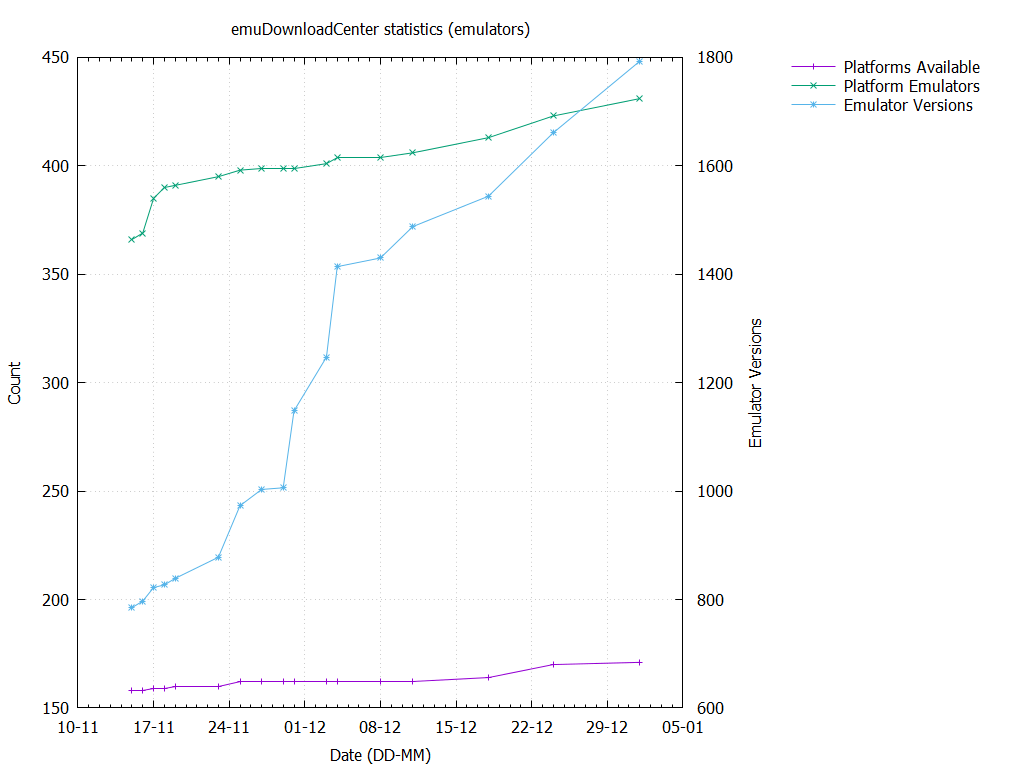
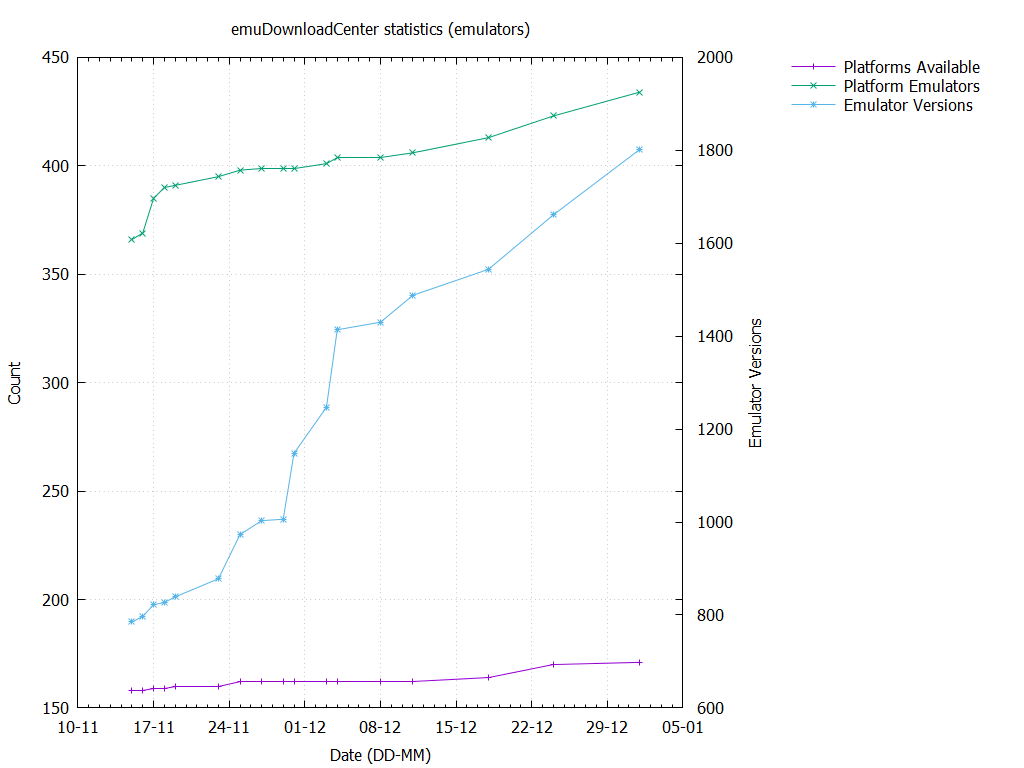
Emulator updates

diff --git a/Emulator-mz700win.md b/Emulator-mz700win.md
@@ -1,0 +1,45 @@
+###### Welcome to [emuDownloadCenter (EDC)](https://github.com/PhoenixInteractiveNL/emuDownloadCenter/wiki/), EDC is a side project of [emuControlCenter](https://github.com/PhoenixInteractiveNL/emuControlCenter/wiki/)
+***
+## Menu
+| **Emulator: MZ700WIN** |
+|:---------|
+| [:clipboard: About](#about) |
+| [:sunrise: Screenshot](#screenshot) |
+| [:floppy_disk: Downloads](#downloads) |
+***
+## About
+**Developement state:** :large_blue_circle: 2016
+
+**MZ700WIN** is a emulator for **Sharp MZ-700/1500** made by **Takeshi Maruyama (marukun)** and has a **Freeware** license, the GUI language is **English**.
+
+The latest version of the emulator on EDC is **0.56 (x86)**, released on **2016-09-12**, it runs on **Windows XP,Vista,7,8,10**, you can start this emulator with **mz700win.exe**.
+
+:warning: _**Please note:**_ This emulator **needs BIOS image(s)** to start ROM files!
+
+_mz700win - an MZ-700 emulator._
+
+[:link: **Emulator website**](http://www.retropc.net/mz-memories/mz700/)
+***
+## Screenshot
+![](https://raw.githubusercontent.com/PhoenixInteractiveNL/emuDownloadCenter/master/hooks/mz700win/emulator_screen_01.jpg "MZ700WIN screenshot.")
+***
+## Downloads
+Legend: | 
+![](https://raw.githubusercontent.com/wiki/PhoenixInteractiveNL/emuDownloadCenter/images_misc/icon_program_24.png) **Program** | 
+![](https://raw.githubusercontent.com/wiki/PhoenixInteractiveNL/emuDownloadCenter/images_misc/icon_installer_24.png) **Installer** | 
+![](https://raw.githubusercontent.com/wiki/PhoenixInteractiveNL/emuDownloadCenter/images_misc/icon_source_code_24.png) **Source** | 
+![](https://raw.githubusercontent.com/wiki/PhoenixInteractiveNL/emuDownloadCenter/images_misc/icon_extra_24.png) **Extra** | 
+![](https://raw.githubusercontent.com/wiki/PhoenixInteractiveNL/emuDownloadCenter/images_misc/icon_plugin_24.png) **Plugin** | 
+![](https://raw.githubusercontent.com/wiki/PhoenixInteractiveNL/emuDownloadCenter/images_misc/icon_driver_24.png) **Driver** | 
+![](https://raw.githubusercontent.com/wiki/PhoenixInteractiveNL/emuDownloadCenter/images_misc/icon_tool_24.png) **Tool** | 
+ 
+| Version | OS | Release date | Info | DL Size |
+|:--------|---:|:------------:|:----:|--------:|
+| [![](https://raw.githubusercontent.com/wiki/PhoenixInteractiveNL/emuDownloadCenter/images_misc/icon_program_24.png "Click to download!")  **0.56**](https://github.com/PhoenixInteractiveNL/edc-repo0006/raw/master/mz700win/0.56.7z) | ![](https://raw.githubusercontent.com/wiki/PhoenixInteractiveNL/emuDownloadCenter/images_misc/logo_windows_24.png) ![](https://raw.githubusercontent.com/wiki/PhoenixInteractiveNL/emuDownloadCenter/images_misc/icon_32-bit_24.png) | 2016-09-12 | [![](https://raw.githubusercontent.com/wiki/PhoenixInteractiveNL/emuDownloadCenter/images_misc/icon_changelog_24.png "Click to view version changelog.")](https://github.com/PhoenixInteractiveNL/edc-repo0006/blob/master/mz700win/0.56_changelog.txt) [![](https://raw.githubusercontent.com/wiki/PhoenixInteractiveNL/emuDownloadCenter/images_misc/icon_contents_24.png "Click to view archive contents.")](https://github.com/PhoenixInteractiveNL/edc-repo0006/blob/master/mz700win/0.56_contents.txt) | 214 KB |
+| [![](https://raw.githubusercontent.com/wiki/PhoenixInteractiveNL/emuDownloadCenter/images_misc/icon_program_24.png "Click to download!")  **0.53**](https://github.com/PhoenixInteractiveNL/edc-repo0006/raw/master/mz700win/0.53.7z) | ![](https://raw.githubusercontent.com/wiki/PhoenixInteractiveNL/emuDownloadCenter/images_misc/logo_windows_24.png) ![](https://raw.githubusercontent.com/wiki/PhoenixInteractiveNL/emuDownloadCenter/images_misc/icon_32-bit_24.png) | 2008-02-11 | [![](https://raw.githubusercontent.com/wiki/PhoenixInteractiveNL/emuDownloadCenter/images_misc/icon_changelog_24.png "Click to view version changelog.")](https://github.com/PhoenixInteractiveNL/edc-repo0006/blob/master/mz700win/0.53_changelog.txt) [![](https://raw.githubusercontent.com/wiki/PhoenixInteractiveNL/emuDownloadCenter/images_misc/icon_contents_24.png "Click to view archive contents.")](https://github.com/PhoenixInteractiveNL/edc-repo0006/blob/master/mz700win/0.53_contents.txt) | 120 KB |
+| [![](https://raw.githubusercontent.com/wiki/PhoenixInteractiveNL/emuDownloadCenter/images_misc/icon_program_24.png "Click to download!")  **0.52**](https://github.com/PhoenixInteractiveNL/edc-repo0006/raw/master/mz700win/0.52.7z) | ![](https://raw.githubusercontent.com/wiki/PhoenixInteractiveNL/emuDownloadCenter/images_misc/logo_windows_24.png) ![](https://raw.githubusercontent.com/wiki/PhoenixInteractiveNL/emuDownloadCenter/images_misc/icon_32-bit_24.png) | 2000-10-27 | [![](https://raw.githubusercontent.com/wiki/PhoenixInteractiveNL/emuDownloadCenter/images_misc/icon_changelog_24.png "Click to view version changelog.")](https://github.com/PhoenixInteractiveNL/edc-repo0006/blob/master/mz700win/0.52_changelog.txt) [![](https://raw.githubusercontent.com/wiki/PhoenixInteractiveNL/emuDownloadCenter/images_misc/icon_contents_24.png "Click to view archive contents.")](https://github.com/PhoenixInteractiveNL/edc-repo0006/blob/master/mz700win/0.52_contents.txt) | 100 KB |
+| [![](https://raw.githubusercontent.com/wiki/PhoenixInteractiveNL/emuDownloadCenter/images_misc/icon_source_code_24.png "Click to download!")  **0.52-source**](https://github.com/PhoenixInteractiveNL/edc-repo0006/raw/master/mz700win/0.52-source.7z) |  ![](https://raw.githubusercontent.com/wiki/PhoenixInteractiveNL/emuDownloadCenter/images_misc/icon_32-bit_24.png) | 2000-10-27 | [![](https://raw.githubusercontent.com/wiki/PhoenixInteractiveNL/emuDownloadCenter/images_misc/icon_changelog_24.png "Click to view version changelog.")](https://github.com/PhoenixInteractiveNL/edc-repo0006/blob/master/mz700win/0.52-source_changelog.txt) [![](https://raw.githubusercontent.com/wiki/PhoenixInteractiveNL/emuDownloadCenter/images_misc/icon_contents_24.png "Click to view archive contents.")](https://github.com/PhoenixInteractiveNL/edc-repo0006/blob/master/mz700win/0.52-source_contents.txt) | 78 KB |
+| [![](https://raw.githubusercontent.com/wiki/PhoenixInteractiveNL/emuDownloadCenter/images_misc/icon_source_code_24.png "Click to download!")  **0.2-source**](https://github.com/PhoenixInteractiveNL/edc-repo0006/raw/master/mz700win/0.2-source.7z) |  ![](https://raw.githubusercontent.com/wiki/PhoenixInteractiveNL/emuDownloadCenter/images_misc/icon_32-bit_24.png) | 1996-12-04 | [![](https://raw.githubusercontent.com/wiki/PhoenixInteractiveNL/emuDownloadCenter/images_misc/icon_changelog_24.png "Click to view version changelog.")](https://github.com/PhoenixInteractiveNL/edc-repo0006/blob/master/mz700win/0.2-source_changelog.txt) [![](https://raw.githubusercontent.com/wiki/PhoenixInteractiveNL/emuDownloadCenter/images_misc/icon_contents_24.png "Click to view archive contents.")](https://github.com/PhoenixInteractiveNL/edc-repo0006/blob/master/mz700win/0.2-source_contents.txt) | 29 KB |
+| [![](https://raw.githubusercontent.com/wiki/PhoenixInteractiveNL/emuDownloadCenter/images_misc/icon_extra_24.png "Click to download!") ![](https://raw.githubusercontent.com/wiki/PhoenixInteractiveNL/emuDownloadCenter/images_misc/icon_tool_24.png) **extra-mzt2wav-0.2**](https://github.com/PhoenixInteractiveNL/edc-repo0006/raw/master/mz700win/extra-mzt2wav-0.2.7z) | ![](https://raw.githubusercontent.com/wiki/PhoenixInteractiveNL/emuDownloadCenter/images_misc/logo_windows_24.png) ![](https://raw.githubusercontent.com/wiki/PhoenixInteractiveNL/emuDownloadCenter/images_misc/icon_32-bit_24.png) | 2000-01-17 | [![](https://raw.githubusercontent.com/wiki/PhoenixInteractiveNL/emuDownloadCenter/images_misc/icon_changelog_24.png "Click to view version changelog.")](https://github.com/PhoenixInteractiveNL/edc-repo0006/blob/master/mz700win/extra-mzt2wav-0.2_changelog.txt) [![](https://raw.githubusercontent.com/wiki/PhoenixInteractiveNL/emuDownloadCenter/images_misc/icon_contents_24.png "Click to view archive contents.")](https://github.com/PhoenixInteractiveNL/edc-repo0006/blob/master/mz700win/extra-mzt2wav-0.2_contents.txt) | 15 KB |
+
+[:arrow_backward: Go to platform listing](https://github.com/PhoenixInteractiveNL/emuDownloadCenter/wiki/EDC-Platform-List)

diff --git a/Emulator-em7.md b/Emulator-em7.md
@@ -10,11 +10,11 @@
 ## About
 ![](https://github.com/PhoenixInteractiveNL/emuDownloadCenter/wiki/images_emulator/em7_logo_200.jpg "EM-7 logo.")
 
-**Developement state:** :red_circle: 2000
+**Developement state:** :red_circle: 1998
 
 **EM-7** is a emulator for **Fujitsu FM-7** made by **Yoshimi** and has a **Freeware** license, the GUI language is **Japanese**.
 
-The latest version of the emulator on EDC is **2.1a-win95-98 (x86)**, released on **2000-02-14**, it runs on **Windows 95,98,XP**, you can start this emulator with **Em7.exe**.
+The latest version of the emulator on EDC is **2.2b-dos (x86)**, released on **1998-10-21**, it runs on **DOS 6.22**, you can start this emulator with **EM7SWUP.EXE**.
 
 :warning: _**Please note:**_ This emulator **needs BIOS image(s)** to start ROM files!
 
@@ -37,8 +37,8 @@ Legend: |
  
 | Version | OS | Release date | Info | DL Size |
 |:--------|---:|:------------:|:----:|--------:|
-| [![](https://raw.githubusercontent.com/wiki/PhoenixInteractiveNL/emuDownloadCenter/images_misc/icon_program_24.png "Click to download!")  **2.1a-win95-98**](https://github.com/PhoenixInteractiveNL/edc-repo0006/raw/master/em7/2.1a-win95-98.7z) | ![](https://raw.githubusercontent.com/wiki/PhoenixInteractiveNL/emuDownloadCenter/images_misc/logo_windows_24.png) ![](https://raw.githubusercontent.com/wiki/PhoenixInteractiveNL/emuDownloadCenter/images_misc/icon_32-bit_24.png) | 2000-02-14 | [![](https://raw.githubusercontent.com/wiki/PhoenixInteractiveNL/emuDownloadCenter/images_misc/icon_changelog_24.png "Click to view version changelog.")](https://github.com/PhoenixInteractiveNL/edc-repo0006/blob/master/em7/2.1a-win95-98_changelog.txt) [![](https://raw.githubusercontent.com/wiki/PhoenixInteractiveNL/emuDownloadCenter/images_misc/icon_contents_24.png "Click to view archive contents.")](https://github.com/PhoenixInteractiveNL/edc-repo0006/blob/master/em7/2.1a-win95-98_contents.txt) | 251 KB |
 | [![](https://raw.githubusercontent.com/wiki/PhoenixInteractiveNL/emuDownloadCenter/images_misc/icon_program_24.png "Click to download!")  **2.2b-dos**](https://github.com/PhoenixInteractiveNL/edc-repo0006/raw/master/em7/2.2b-dos.7z) | ![](https://raw.githubusercontent.com/wiki/PhoenixInteractiveNL/emuDownloadCenter/images_misc/logo_dos_24.png) ![](https://raw.githubusercontent.com/wiki/PhoenixInteractiveNL/emuDownloadCenter/images_misc/icon_32-bit_24.png) | 1998-10-21 | [![](https://raw.githubusercontent.com/wiki/PhoenixInteractiveNL/emuDownloadCenter/images_misc/icon_changelog_24.png "Click to view version changelog.")](https://github.com/PhoenixInteractiveNL/edc-repo0006/blob/master/em7/2.2b-dos_changelog.txt) [![](https://raw.githubusercontent.com/wiki/PhoenixInteractiveNL/emuDownloadCenter/images_misc/icon_contents_24.png "Click to view archive contents.")](https://github.com/PhoenixInteractiveNL/edc-repo0006/blob/master/em7/2.2b-dos_contents.txt) | 262 KB |
+| [![](https://raw.githubusercontent.com/wiki/PhoenixInteractiveNL/emuDownloadCenter/images_misc/icon_program_24.png "Click to download!")  **2.1a-win95-98**](https://github.com/PhoenixInteractiveNL/edc-repo0006/raw/master/em7/2.1a-win95-98.7z) | ![](https://raw.githubusercontent.com/wiki/PhoenixInteractiveNL/emuDownloadCenter/images_misc/logo_windows_24.png) ![](https://raw.githubusercontent.com/wiki/PhoenixInteractiveNL/emuDownloadCenter/images_misc/icon_32-bit_24.png) | 2000-02-14 | [![](https://raw.githubusercontent.com/wiki/PhoenixInteractiveNL/emuDownloadCenter/images_misc/icon_changelog_24.png "Click to view version changelog.")](https://github.com/PhoenixInteractiveNL/edc-repo0006/blob/master/em7/2.1a-win95-98_changelog.txt) [![](https://raw.githubusercontent.com/wiki/PhoenixInteractiveNL/emuDownloadCenter/images_misc/icon_contents_24.png "Click to view archive contents.")](https://github.com/PhoenixInteractiveNL/edc-repo0006/blob/master/em7/2.1a-win95-98_contents.txt) | 251 KB |
 | [![](https://raw.githubusercontent.com/wiki/PhoenixInteractiveNL/emuDownloadCenter/images_misc/icon_program_24.png "Click to download!")  **2.1a-dos**](https://github.com/PhoenixInteractiveNL/edc-repo0006/raw/master/em7/2.1a-dos.7z) | ![](https://raw.githubusercontent.com/wiki/PhoenixInteractiveNL/emuDownloadCenter/images_misc/logo_dos_24.png) ![](https://raw.githubusercontent.com/wiki/PhoenixInteractiveNL/emuDownloadCenter/images_misc/icon_32-bit_24.png) | 1996-12-01 | [![](https://raw.githubusercontent.com/wiki/PhoenixInteractiveNL/emuDownloadCenter/images_misc/icon_changelog_24.png "Click to view version changelog.")](https://github.com/PhoenixInteractiveNL/edc-repo0006/blob/master/em7/2.1a-dos_changelog.txt) [![](https://raw.githubusercontent.com/wiki/PhoenixInteractiveNL/emuDownloadCenter/images_misc/icon_contents_24.png "Click to view archive contents.")](https://github.com/PhoenixInteractiveNL/edc-repo0006/blob/master/em7/2.1a-dos_contents.txt) | 215 KB |
 
 [:arrow_backward: Go to platform listing](https://github.com/PhoenixInteractiveNL/emuDownloadCenter/wiki/EDC-Platform-List)

diff --git a/Emulator-nemulator.md b/Emulator-nemulator.md
@@ -1,0 +1,41 @@
+###### Welcome to [emuDownloadCenter (EDC)](https://github.com/PhoenixInteractiveNL/emuDownloadCenter/wiki/), EDC is a side project of [emuControlCenter](https://github.com/PhoenixInteractiveNL/emuControlCenter/wiki/)
+***
+## Menu
+| **Emulator: Nemulator** |
+|:---------|
+| [:clipboard: About](#about) |
+| [:sunrise: Screenshot](#screenshot) |
+| [:floppy_disk: Downloads](#downloads) |
+***
+## About
+**Developement state:** :large_blue_circle: 2016
+
+**Nemulator** is a emulator for **Nintendo NES/Famicom** made by **James Slepicka** and has a **Freeware** license, the GUI language is **English**.
+
+The latest version of the emulator on EDC is **4.01 (x86)**, released on **2016-01-19**, it runs on **Windows XP,Vista,7,8,10**, you can start this emulator with **nemulator.exe**.
+
+This emulator does **NOT** specificly need BIOS image(s) to start ROM files!
+
+_nemulator is a Nintendo Entertainment Systems and Sega Master System emulator._
+
+[:link: **Emulator website**](http://nemulator.com/)
+***
+## Screenshot
+![](https://raw.githubusercontent.com/PhoenixInteractiveNL/emuDownloadCenter/master/hooks/nemulator/emulator_screen_01.jpg "Nemulator screenshot.")
+***
+## Downloads
+Legend: | 
+![](https://raw.githubusercontent.com/wiki/PhoenixInteractiveNL/emuDownloadCenter/images_misc/icon_program_24.png) **Program** | 
+![](https://raw.githubusercontent.com/wiki/PhoenixInteractiveNL/emuDownloadCenter/images_misc/icon_installer_24.png) **Installer** | 
+![](https://raw.githubusercontent.com/wiki/PhoenixInteractiveNL/emuDownloadCenter/images_misc/icon_source_code_24.png) **Source** | 
+![](https://raw.githubusercontent.com/wiki/PhoenixInteractiveNL/emuDownloadCenter/images_misc/icon_extra_24.png) **Extra** | 
+![](https://raw.githubusercontent.com/wiki/PhoenixInteractiveNL/emuDownloadCenter/images_misc/icon_plugin_24.png) **Plugin** | 
+![](https://raw.githubusercontent.com/wiki/PhoenixInteractiveNL/emuDownloadCenter/images_misc/icon_driver_24.png) **Driver** | 
+![](https://raw.githubusercontent.com/wiki/PhoenixInteractiveNL/emuDownloadCenter/images_misc/icon_tool_24.png) **Tool** | 
+ 
+| Version | OS | Release date | Info | DL Size |
+|:--------|---:|:------------:|:----:|--------:|
+| [![](https://raw.githubusercontent.com/wiki/PhoenixInteractiveNL/emuDownloadCenter/images_misc/icon_program_24.png "Click to download!")  **4.01**](https://github.com/PhoenixInteractiveNL/edc-repo0004/raw/master/nemulator/4.01.7z) | ![](https://raw.githubusercontent.com/wiki/PhoenixInteractiveNL/emuDownloadCenter/images_misc/logo_windows_24.png) ![](https://raw.githubusercontent.com/wiki/PhoenixInteractiveNL/emuDownloadCenter/images_misc/icon_32-bit_24.png) | 2016-01-19 | [![](https://raw.githubusercontent.com/wiki/PhoenixInteractiveNL/emuDownloadCenter/images_misc/icon_changelog_24.png "Click to view version changelog.")](https://github.com/PhoenixInteractiveNL/edc-repo0004/blob/master/nemulator/4.01_changelog.txt) [![](https://raw.githubusercontent.com/wiki/PhoenixInteractiveNL/emuDownloadCenter/images_misc/icon_contents_24.png "Click to view archive contents.")](https://github.com/PhoenixInteractiveNL/edc-repo0004/blob/master/nemulator/4.01_contents.txt) | 135 KB |
+| [![](https://raw.githubusercontent.com/wiki/PhoenixInteractiveNL/emuDownloadCenter/images_misc/icon_program_24.png "Click to download!")  **3.5**](https://github.com/PhoenixInteractiveNL/edc-repo0004/raw/master/nemulator/3.5.7z) | ![](https://raw.githubusercontent.com/wiki/PhoenixInteractiveNL/emuDownloadCenter/images_misc/logo_windows_24.png) ![](https://raw.githubusercontent.com/wiki/PhoenixInteractiveNL/emuDownloadCenter/images_misc/icon_32-bit_24.png) | 2015-12-25 | [![](https://raw.githubusercontent.com/wiki/PhoenixInteractiveNL/emuDownloadCenter/images_misc/icon_changelog_24.png "Click to view version changelog.")](https://github.com/PhoenixInteractiveNL/edc-repo0004/blob/master/nemulator/3.5_changelog.txt) [![](https://raw.githubusercontent.com/wiki/PhoenixInteractiveNL/emuDownloadCenter/images_misc/icon_contents_24.png "Click to view archive contents.")](https://github.com/PhoenixInteractiveNL/edc-repo0004/blob/master/nemulator/3.5_contents.txt) | 95 KB |
+
+[:arrow_backward: Go to platform listing](https://github.com/PhoenixInteractiveNL/emuDownloadCenter/wiki/EDC-Platform-List)

diff --git a/Emulator-swfopener.md b/Emulator-swfopener.md
@@ -38,6 +38,6 @@ Legend: |
 | Version | OS | Release date | Info | DL Size |
 |:--------|---:|:------------:|:----:|--------:|
 | [![](https://raw.githubusercontent.com/wiki/PhoenixInteractiveNL/emuDownloadCenter/images_misc/icon_program_24.png "Click to download!")  **1.3**](https://github.com/PhoenixInteractiveNL/edc-repo0006/raw/master/swfopener/1.3.7z) | ![](https://raw.githubusercontent.com/wiki/PhoenixInteractiveNL/emuDownloadCenter/images_misc/logo_windows_24.png) ![](https://raw.githubusercontent.com/wiki/PhoenixInteractiveNL/emuDownloadCenter/images_misc/icon_32-bit_24.png) | 2005-04-27 | [![](https://raw.githubusercontent.com/wiki/PhoenixInteractiveNL/emuDownloadCenter/images_misc/icon_changelog_24.png "Click to view version changelog.")](https://github.com/PhoenixInteractiveNL/edc-repo0006/blob/master/swfopener/1.3_changelog.txt) [![](https://raw.githubusercontent.com/wiki/PhoenixInteractiveNL/emuDownloadCenter/images_misc/icon_contents_24.png "Click to view archive contents.")](https://github.com/PhoenixInteractiveNL/edc-repo0006/blob/master/swfopener/1.3_contents.txt) | 276 KB |
-| [![](https://raw.githubusercontent.com/wiki/PhoenixInteractiveNL/emuDownloadCenter/images_misc/icon_program_24.png "Click to download!")  **1.3-installer**](https://github.com/PhoenixInteractiveNL/edc-repo0006/raw/master/swfopener/1.3-installer.7z) | ![](https://raw.githubusercontent.com/wiki/PhoenixInteractiveNL/emuDownloadCenter/images_misc/logo_windows_24.png) ![](https://raw.githubusercontent.com/wiki/PhoenixInteractiveNL/emuDownloadCenter/images_misc/icon_32-bit_24.png) | 2005-04-27 | [![](https://raw.githubusercontent.com/wiki/PhoenixInteractiveNL/emuDownloadCenter/images_misc/icon_changelog_24.png "Click to view version changelog.")](https://github.com/PhoenixInteractiveNL/edc-repo0006/blob/master/swfopener/1.3-installer_changelog.txt) [![](https://raw.githubusercontent.com/wiki/PhoenixInteractiveNL/emuDownloadCenter/images_misc/icon_contents_24.png "Click to view archive contents.")](https://github.com/PhoenixInteractiveNL/edc-repo0006/blob/master/swfopener/1.3-installer_contents.txt) | 603 KB |
+| [![](https://raw.githubusercontent.com/wiki/PhoenixInteractiveNL/emuDownloadCenter/images_misc/icon_installer_24.png "Click to download!")  **1.3-installer**](https://github.com/PhoenixInteractiveNL/edc-repo0006/raw/master/swfopener/1.3-installer.7z) | ![](https://raw.githubusercontent.com/wiki/PhoenixInteractiveNL/emuDownloadCenter/images_misc/logo_windows_24.png) ![](https://raw.githubusercontent.com/wiki/PhoenixInteractiveNL/emuDownloadCenter/images_misc/icon_32-bit_24.png) | 2005-04-27 | [![](https://raw.githubusercontent.com/wiki/PhoenixInteractiveNL/emuDownloadCenter/images_misc/icon_changelog_24.png "Click to view version changelog.")](https://github.com/PhoenixInteractiveNL/edc-repo0006/blob/master/swfopener/1.3-installer_changelog.txt) [![](https://raw.githubusercontent.com/wiki/PhoenixInteractiveNL/emuDownloadCenter/images_misc/icon_contents_24.png "Click to view archive contents.")](https://github.com/PhoenixInteractiveNL/edc-repo0006/blob/master/swfopener/1.3-installer_contents.txt) | 603 KB |
 
 [:arrow_backward: Go to platform listing](https://github.com/PhoenixInteractiveNL/emuDownloadCenter/wiki/EDC-Platform-List)

diff --git a/Emulator-cpe.md b/Emulator-cpe.md
@@ -1,0 +1,40 @@
+###### Welcome to [emuDownloadCenter (EDC)](https://github.com/PhoenixInteractiveNL/emuDownloadCenter/wiki/), EDC is a side project of [emuControlCenter](https://github.com/PhoenixInteractiveNL/emuControlCenter/wiki/)
+***
+## Menu
+| **Emulator: CPE** |
+|:---------|
+| [:clipboard: About](#about) |
+| [:sunrise: Screenshot](#screenshot) |
+| [:floppy_disk: Downloads](#downloads) |
+***
+## About
+**Developement state:** :red_circle: 1997
+
+**CPE** is a emulator for **Amstrad CPC** made by **Bernd Schmidt & Ulrich Doewich** and has a **Freeware** license, the GUI language is **English**.
+
+The latest version of the emulator on EDC is **5.2 (x86)**, released on **1997-04-28**, it runs on **Windows 95, XP**, you can start this emulator with **CPE.exe**.
+
+This emulator does **NOT** specificly need BIOS image(s) to start ROM files!
+
+_The Amstrad CPC Emulator._
+
+[:link: **Emulator website**](http://members.tor.shaw.wave.ca/~doewich/cpc)
+***
+## Screenshot
+![](https://raw.githubusercontent.com/PhoenixInteractiveNL/emuDownloadCenter/master/hooks/cpe/emulator_screen_01.jpg "CPE screenshot.")
+***
+## Downloads
+Legend: | 
+![](https://raw.githubusercontent.com/wiki/PhoenixInteractiveNL/emuDownloadCenter/images_misc/icon_program_24.png) **Program** | 
+![](https://raw.githubusercontent.com/wiki/PhoenixInteractiveNL/emuDownloadCenter/images_misc/icon_installer_24.png) **Installer** | 
+![](https://raw.githubusercontent.com/wiki/PhoenixInteractiveNL/emuDownloadCenter/images_misc/icon_source_code_24.png) **Source** | 
+![](https://raw.githubusercontent.com/wiki/PhoenixInteractiveNL/emuDownloadCenter/images_misc/icon_extra_24.png) **Extra** | 
+![](https://raw.githubusercontent.com/wiki/PhoenixInteractiveNL/emuDownloadCenter/images_misc/icon_plugin_24.png) **Plugin** | 
+![](https://raw.githubusercontent.com/wiki/PhoenixInteractiveNL/emuDownloadCenter/images_misc/icon_driver_24.png) **Driver** | 
+![](https://raw.githubusercontent.com/wiki/PhoenixInteractiveNL/emuDownloadCenter/images_misc/icon_tool_24.png) **Tool** | 
+ 
+| Version | OS | Release date | Info | DL Size |
+|:--------|---:|:------------:|:----:|--------:|
+| [![](https://raw.githubusercontent.com/wiki/PhoenixInteractiveNL/emuDownloadCenter/images_misc/icon_program_24.png "Click to download!")  **5.2**](https://github.com/PhoenixInteractiveNL/edc-repo0006/raw/master/cpe/5.2.7z) | ![](https://raw.githubusercontent.com/wiki/PhoenixInteractiveNL/emuDownloadCenter/images_misc/logo_windows_24.png) ![](https://raw.githubusercontent.com/wiki/PhoenixInteractiveNL/emuDownloadCenter/images_misc/icon_32-bit_24.png) | 1997-04-28 | [![](https://raw.githubusercontent.com/wiki/PhoenixInteractiveNL/emuDownloadCenter/images_misc/icon_changelog_24.png "Click to view version changelog.")](https://github.com/PhoenixInteractiveNL/edc-repo0006/blob/master/cpe/5.2_changelog.txt) [![](https://raw.githubusercontent.com/wiki/PhoenixInteractiveNL/emuDownloadCenter/images_misc/icon_contents_24.png "Click to view archive contents.")](https://github.com/PhoenixInteractiveNL/edc-repo0006/blob/master/cpe/5.2_contents.txt) | 165 KB |
+
+[:arrow_backward: Go to platform listing](https://github.com/PhoenixInteractiveNL/emuDownloadCenter/wiki/EDC-Platform-List)

diff --git a/Platform-sms.md b/Platform-sms.md
@@ -21,6 +21,7 @@
 | [:file_folder: **Mednafen**](https://github.com/PhoenixInteractiveNL/emuDownloadCenter/wiki/Emulator-mednafen#menu) | :large_blue_circle: 2016 | GNU GPLv2 | ![](https://raw.githubusercontent.com/wiki/PhoenixInteractiveNL/emuDownloadCenter/images_flags/icon_flag_EN_24.png "Emulator GUI language: English") |
 | [:file_folder: **MEKA**](https://github.com/PhoenixInteractiveNL/emuDownloadCenter/wiki/Emulator-meka#menu) | :red_circle: 2010 | Unrestrictive BSD-like | ![](https://raw.githubusercontent.com/wiki/PhoenixInteractiveNL/emuDownloadCenter/images_flags/icon_flag_EN_24.png "Emulator GUI language: English") |
 | [:file_folder: **MesaDX**](https://github.com/PhoenixInteractiveNL/emuDownloadCenter/wiki/Emulator-mesadx#menu) | :red_circle: 2006 | Freeware | ![](https://raw.githubusercontent.com/wiki/PhoenixInteractiveNL/emuDownloadCenter/images_flags/icon_flag_EN_24.png "Emulator GUI language: English") |
+| [:file_folder: **Nemulator**](https://github.com/PhoenixInteractiveNL/emuDownloadCenter/wiki/Emulator-nemulator#menu) | :large_blue_circle: 2016 | Freeware | ![](https://raw.githubusercontent.com/wiki/PhoenixInteractiveNL/emuDownloadCenter/images_flags/icon_flag_EN_24.png "Emulator GUI language: English") |
 | [:file_folder: **Osmose**](https://github.com/PhoenixInteractiveNL/emuDownloadCenter/wiki/Emulator-osmose#menu) | :red_circle: 2009 | GNU GPLv2 | ![](https://raw.githubusercontent.com/wiki/PhoenixInteractiveNL/emuDownloadCenter/images_flags/icon_flag_EN_24.png "Emulator GUI language: English") |
 | [:file_folder: **Phoenix**](https://github.com/PhoenixInteractiveNL/emuDownloadCenter/wiki/Emulator-phoenix#menu) | :large_blue_circle: 2016 | Free for Personal and Non-Commercial Use | ![](https://raw.githubusercontent.com/wiki/PhoenixInteractiveNL/emuDownloadCenter/images_flags/icon_flag_RU_24.png "Emulator GUI language: Russian") |
 | [:file_folder: **PicoDrive**](https://github.com/PhoenixInteractiveNL/emuDownloadCenter/wiki/Emulator-picodrive#menu) | :red_circle: 2008 | Non-standard | ![](https://raw.githubusercontent.com/wiki/PhoenixInteractiveNL/emuDownloadCenter/images_flags/icon_flag_EN_24.png "Emulator GUI language: English") |

diff --git a/Platform-nes.md b/Platform-nes.md
@@ -25,6 +25,7 @@
 | [:file_folder: **Mercury Revival**](https://github.com/PhoenixInteractiveNL/emuDownloadCenter/wiki/Emulator-mercury#menu) | :white_circle: 2014 | Freeware | ![](https://raw.githubusercontent.com/wiki/PhoenixInteractiveNL/emuDownloadCenter/images_flags/icon_flag_EN_24.png "Emulator GUI language: English") |
 | [:file_folder: **Mesen**](https://github.com/PhoenixInteractiveNL/emuDownloadCenter/wiki/Emulator-mesen#menu) | :large_blue_circle: 2016 | GNU GPLv3 | ![](https://raw.githubusercontent.com/wiki/PhoenixInteractiveNL/emuDownloadCenter/images_flags/icon_flag_EN_24.png "Emulator GUI language: English") |
 | [:file_folder: **My NES**](https://github.com/PhoenixInteractiveNL/emuDownloadCenter/wiki/Emulator-mynes#menu) | :large_blue_circle: 2015 | GNU GPLv3 | ![](https://raw.githubusercontent.com/wiki/PhoenixInteractiveNL/emuDownloadCenter/images_flags/icon_flag_EN_24.png "Emulator GUI language: English") |
+| [:file_folder: **Nemulator**](https://github.com/PhoenixInteractiveNL/emuDownloadCenter/wiki/Emulator-nemulator#menu) | :large_blue_circle: 2016 | Freeware | ![](https://raw.githubusercontent.com/wiki/PhoenixInteractiveNL/emuDownloadCenter/images_flags/icon_flag_EN_24.png "Emulator GUI language: English") |
 | [:file_folder: **Nestopia**](https://github.com/PhoenixInteractiveNL/emuDownloadCenter/wiki/Emulator-nestopia#menu) | :white_circle: 2014 | Open Source | ![](https://raw.githubusercontent.com/wiki/PhoenixInteractiveNL/emuDownloadCenter/images_flags/icon_flag_EN_24.png "Emulator GUI language: English") |
 | [:file_folder: **nes-emu**](https://github.com/PhoenixInteractiveNL/emuDownloadCenter/wiki/Emulator-nesemu#menu) | :large_blue_circle: 2015 | GNU GPLv2 | ![](https://raw.githubusercontent.com/wiki/PhoenixInteractiveNL/emuDownloadCenter/images_flags/icon_flag_EN_24.png "Emulator GUI language: English") |
 | [:file_folder: **nesterJ**](https://github.com/PhoenixInteractiveNL/emuDownloadCenter/wiki/Emulator-nesterj#menu) | :red_circle: 2003 | GNU GPLv2 | ![](https://raw.githubusercontent.com/wiki/PhoenixInteractiveNL/emuDownloadCenter/images_flags/icon_flag_EN_24.png "Emulator GUI language: English") |

diff --git a/Platform-cpc.md b/Platform-cpc.md
@@ -14,6 +14,7 @@
 | [:file_folder: **CPCE**](https://github.com/PhoenixInteractiveNL/emuDownloadCenter/wiki/Emulator-cpce#menu) | :red_circle: 2008 | Freeware | ![](https://raw.githubusercontent.com/wiki/PhoenixInteractiveNL/emuDownloadCenter/images_flags/icon_flag_EN_24.png "Emulator GUI language: English") |
 | [:file_folder: **CPC-em**](https://github.com/PhoenixInteractiveNL/emuDownloadCenter/wiki/Emulator-cpcem#menu) | :red_circle: 2004 | Freeware | ![](https://raw.githubusercontent.com/wiki/PhoenixInteractiveNL/emuDownloadCenter/images_flags/icon_flag_EN_24.png "Emulator GUI language: English") |
 | [:file_folder: **CPCemu**](https://github.com/PhoenixInteractiveNL/emuDownloadCenter/wiki/Emulator-cpcemu#menu) | :red_circle: 2009 | Freeware | ![](https://raw.githubusercontent.com/wiki/PhoenixInteractiveNL/emuDownloadCenter/images_flags/icon_flag_EN_24.png "Emulator GUI language: English") |
+| [:file_folder: **CPE**](https://github.com/PhoenixInteractiveNL/emuDownloadCenter/wiki/Emulator-cpe#menu) | :red_circle: 1997 | Freeware | ![](https://raw.githubusercontent.com/wiki/PhoenixInteractiveNL/emuDownloadCenter/images_flags/icon_flag_EN_24.png "Emulator GUI language: English") |
 | [:file_folder: **DSP Emulator**](https://github.com/PhoenixInteractiveNL/emuDownloadCenter/wiki/Emulator-dsp#menu) | :large_blue_circle: 2016 | Freeware | ![](https://raw.githubusercontent.com/wiki/PhoenixInteractiveNL/emuDownloadCenter/images_flags/icon_flag_EN_24.png "Emulator GUI language: English") |
 | [:file_folder: **ep128emu**](https://github.com/PhoenixInteractiveNL/emuDownloadCenter/wiki/Emulator-ep128emu#menu) | :red_circle: 2010 | GNU GPLv2 | ![](https://raw.githubusercontent.com/wiki/PhoenixInteractiveNL/emuDownloadCenter/images_flags/icon_flag_EN_24.png "Emulator GUI language: English") |
 | [:file_folder: **JavaCPC**](https://github.com/PhoenixInteractiveNL/emuDownloadCenter/wiki/Emulator-javacpc#menu) | :large_blue_circle: 2015 | GNU GPLv2 | ![](https://raw.githubusercontent.com/wiki/PhoenixInteractiveNL/emuDownloadCenter/images_flags/icon_flag_EN_24.png "Emulator GUI language: English") |

diff --git a/Platform-fm7.md b/Platform-fm7.md
@@ -6,7 +6,7 @@
 
 | Emulator | Developement | License | Language |
 |:---------|:-------------|:--------|:--------:|
-| [:file_folder: **EM-7**](https://github.com/PhoenixInteractiveNL/emuDownloadCenter/wiki/Emulator-em7#menu) | :red_circle: 2000 | Freeware | ![](https://raw.githubusercontent.com/wiki/PhoenixInteractiveNL/emuDownloadCenter/images_flags/icon_flag_JP_24.png "Emulator GUI language: Japanese") |
+| [:file_folder: **EM-7**](https://github.com/PhoenixInteractiveNL/emuDownloadCenter/wiki/Emulator-em7#menu) | :red_circle: 1998 | Freeware | ![](https://raw.githubusercontent.com/wiki/PhoenixInteractiveNL/emuDownloadCenter/images_flags/icon_flag_JP_24.png "Emulator GUI language: Japanese") |
 | [:file_folder: **Takeda Archive**](https://github.com/PhoenixInteractiveNL/emuDownloadCenter/wiki/Emulator-takeda#menu) | :large_blue_circle: 2016 | GNU GPLv2 | ![](https://raw.githubusercontent.com/wiki/PhoenixInteractiveNL/emuDownloadCenter/images_flags/icon_flag_EN_24.png "Emulator GUI language: English") |
 | [:file_folder: **XM7**](https://github.com/PhoenixInteractiveNL/emuDownloadCenter/wiki/Emulator-xm7#menu) | :white_circle: 2014 | Freeware | ![](https://raw.githubusercontent.com/wiki/PhoenixInteractiveNL/emuDownloadCenter/images_flags/icon_flag_EN_24.png "Emulator GUI language: English") |
 | [:file_folder: **XM7dash**](https://github.com/PhoenixInteractiveNL/emuDownloadCenter/wiki/Emulator-xm7dash#menu) | :large_blue_circle: 2015 | Freeware | ![](https://raw.githubusercontent.com/wiki/PhoenixInteractiveNL/emuDownloadCenter/images_flags/icon_flag_EN_24.png "Emulator GUI language: English") |

diff --git a/Platform-mz1500.md b/Platform-mz1500.md
@@ -6,6 +6,7 @@
 
 | Emulator | Developement | License | Language |
 |:---------|:-------------|:--------|:--------:|
+| [:file_folder: **MZ700WIN**](https://github.com/PhoenixInteractiveNL/emuDownloadCenter/wiki/Emulator-mz700win#menu) | :large_blue_circle: 2016 | Freeware | ![](https://raw.githubusercontent.com/wiki/PhoenixInteractiveNL/emuDownloadCenter/images_flags/icon_flag_EN_24.png "Emulator GUI language: English") |
 | [:file_folder: **MZ-800 Emulator**](https://github.com/PhoenixInteractiveNL/emuDownloadCenter/wiki/Emulator-mz800emu#menu) | :large_blue_circle: 2016 | GNU GPLv3 | ![](https://raw.githubusercontent.com/wiki/PhoenixInteractiveNL/emuDownloadCenter/images_flags/icon_flag_EN_24.png "Emulator GUI language: English") |
 | [:file_folder: **MZXX**](https://github.com/PhoenixInteractiveNL/emuDownloadCenter/wiki/Emulator-mzxx#menu) | :red_circle: 2010 | GNU GPLv2 | ![](https://raw.githubusercontent.com/wiki/PhoenixInteractiveNL/emuDownloadCenter/images_flags/icon_flag_EN_24.png "Emulator GUI language: English") |
 | [:file_folder: **Takeda Archive**](https://github.com/PhoenixInteractiveNL/emuDownloadCenter/wiki/Emulator-takeda#menu) | :large_blue_circle: 2016 | GNU GPLv2 | ![](https://raw.githubusercontent.com/wiki/PhoenixInteractiveNL/emuDownloadCenter/images_flags/icon_flag_EN_24.png "Emulator GUI language: English") |

diff --git a/EDC-Statistics.md b/EDC-Statistics.md
@@ -5,13 +5,13 @@ Last update: 2017-01-01
 | :bar_chart: Emulator Statistics | |
 |:-----|------:|
 | Platforms available | 171 |
-| Platform Emulators | 431 |
-| Emulator Versions  | 1793 |
+| Platform Emulators | 434 |
+| Emulator Versions  | 1802 |
 
 | :package: Archive Statistics | |
 |:-----|------:|
-| Archive size | 4159 MB |
-| Unpacked size | 13666 MB |
+| Archive size | 4160 MB |
+| Unpacked size | 13669 MB |
 | Compression ratio | 70% |
 ***
 ## History
